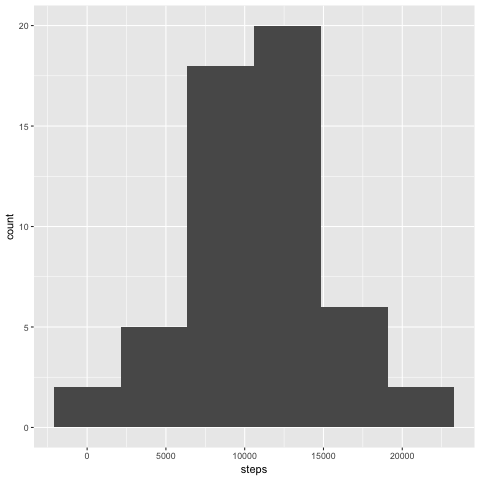
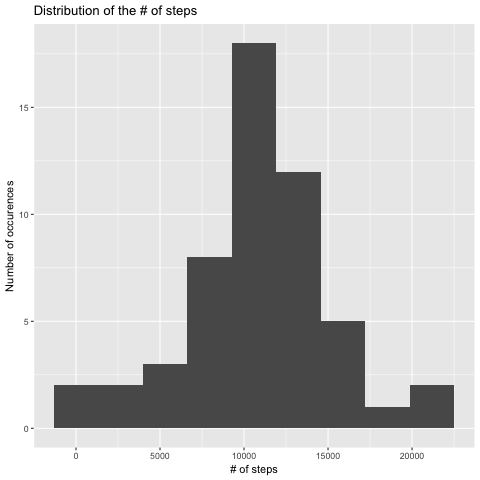
Change graphs and add title

diff --git a/ProgAssignment.html b/ProgAssignment.html
@@ -181,7 +181,10 @@ png(filename=&quot;figure/steps_histogram.png&quot;)
 stepsPerDayDf &lt;- as.data.frame(stepsPerDay)
 maxStepPerDay &lt;- max(stepsPerDayDf$steps)
 g &lt;- ggplot(stepsPerDayDf, aes(steps)) +
-  geom_histogram(binwidth = ceiling(maxStepPerDay / 5))
+  geom_histogram(binwidth = ceiling(maxStepPerDay / 8)) +
+  labs(title= &quot;Distribution of the # of steps&quot;,
+       x = &quot;# of steps&quot;,
+       y = &quot;Number of occurences&quot;)
 g
 dev.off()</code></pre>
 </div>
@@ -294,7 +297,10 @@ head(stepsPerDayFilled)</code></pre>
 stepsPerDayFilledDf &lt;- as.data.frame(stepsPerDayFilled)
 maxStepPerDay &lt;- max(stepsPerDayFilledDf$steps)
 g &lt;- ggplot(stepsPerDayFilledDf, aes(steps)) +
-  geom_histogram(binwidth = ceiling(maxStepPerDay / 5))
+  geom_histogram(binwidth = ceiling(maxStepPerDay / 8)) +
+  labs(title= &quot;Distribution of the # of steps&quot;,
+       x = &quot;# of steps&quot;,
+       y = &quot;Number of occurences&quot;)
 g
 dev.off()</code></pre>
 <p>Those zeros add bias to the data. We want to avoid that. Let us have a look at the distribution of the NA values in the data.</p>
@@ -341,7 +347,10 @@ stepsPerDayFilled &lt;- apply(data, 2, function(x) tapply(x, dates, sum))</code>
 stepsPerDayFilledDf &lt;- as.data.frame(stepsPerDayFilled)
 maxStepPerDay &lt;- max(stepsPerDayFilledDf$steps)
 g &lt;- ggplot(stepsPerDayFilledDf, aes(steps)) +
-  geom_histogram(binwidth = ceiling(maxStepPerDay / 5))
+  geom_histogram(binwidth = ceiling(maxStepPerDay / 8)) +
+  labs(title= &quot;Distribution of the # of steps&quot;,
+       x = &quot;# of steps&quot;,
+       y = &quot;Number of occurences&quot;)
 g
 dev.off()</code></pre>
 <p>Again the shape of this histogram is much closer to the one when we simply omitted the NAs.</p>
